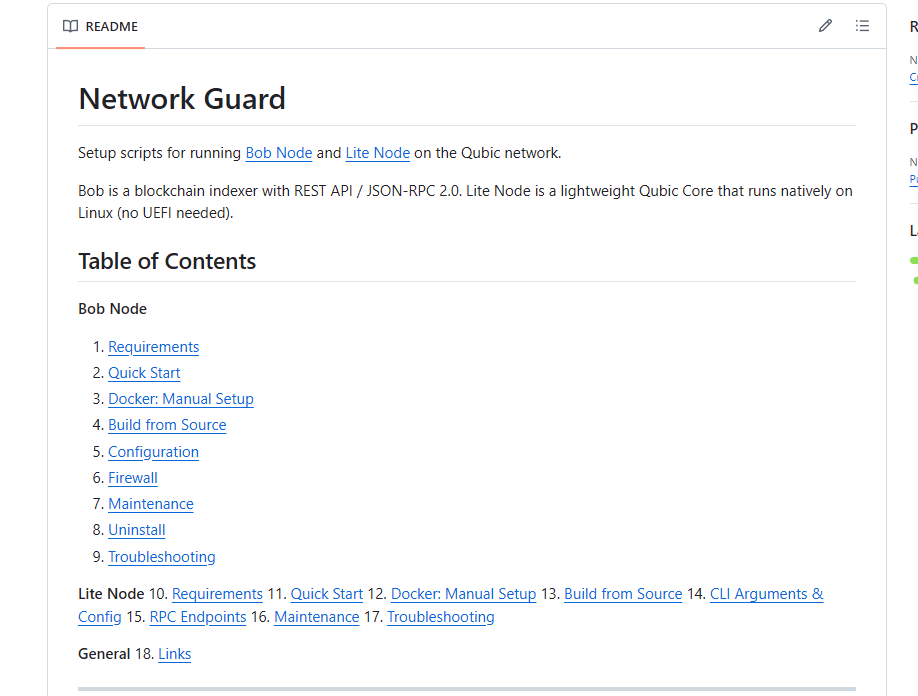
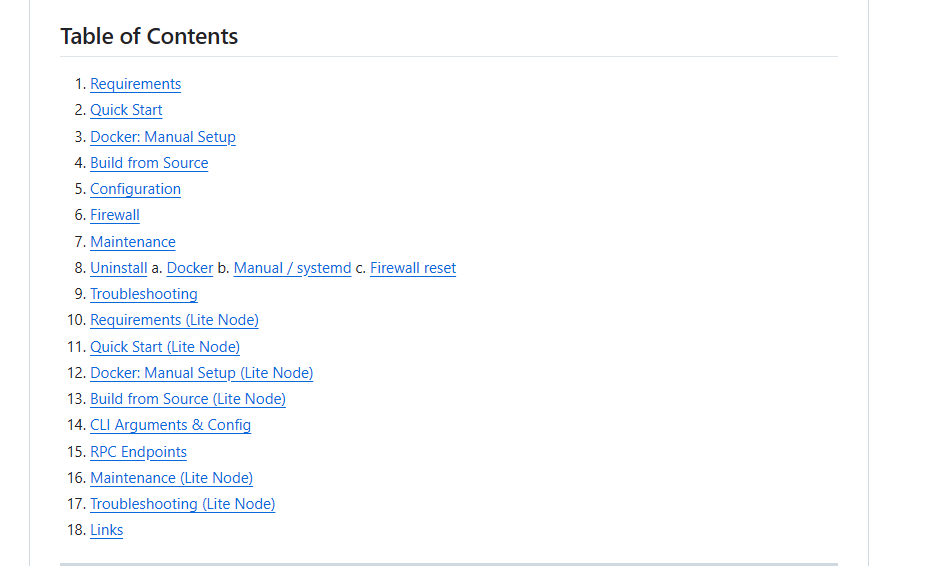
V0.0.3

diff --git a/README.md b/README.md
@@ -6,6 +6,8 @@ Bob is a blockchain indexer with REST API / JSON-RPC 2.0. Lite Node is a lightwe
 
 ## Table of Contents
 
+**Bob Node**
+
 1. [Requirements](#1-requirements)
 2. [Quick Start](#2-quick-start)
 3. [Docker: Manual Setup](#3-docker-manual-setup)
@@ -18,15 +20,25 @@ Bob is a blockchain indexer with REST API / JSON-RPC 2.0. Lite Node is a lightwe
    b. [Manual / systemd](#b-manual-systemd)
    c. [Firewall reset](#c-firewall-reset)
 9. [Troubleshooting](#9-troubleshooting)
-10. [Requirements (Lite Node)](#10-requirements)
-11. [Quick Start (Lite Node)](#11-quick-start)
-12. [Docker: Manual Setup (Lite Node)](#12-docker-manual-setup)
-13. [Build from Source (Lite Node)](#13-build-from-source)
-14. [CLI Arguments & Config](#14-cli-arguments--config)
-15. [RPC Endpoints](#15-rpc-endpoints)
-16. [Maintenance (Lite Node)](#16-maintenance)
-17. [Troubleshooting (Lite Node)](#17-troubleshooting)
-18. [Links](#18-links)
+
+**Lite Node**
+
+<ol start="10">
+<li><a href="#10-requirements">Requirements</a></li>
+<li><a href="#11-quick-start">Quick Start</a></li>
+<li><a href="#12-docker-manual-setup">Docker: Manual Setup</a></li>
+<li><a href="#13-build-from-source">Build from Source</a></li>
+<li><a href="#14-cli-arguments--config">CLI Arguments & Config</a></li>
+<li><a href="#15-rpc-endpoints">RPC Endpoints</a></li>
+<li><a href="#16-maintenance">Maintenance</a></li>
+<li><a href="#17-troubleshooting">Troubleshooting</a></li>
+</ol>
+
+**General**
+
+<ol start="18">
+<li><a href="#18-links">Links</a></li>
+</ol>
 
 ---
 
